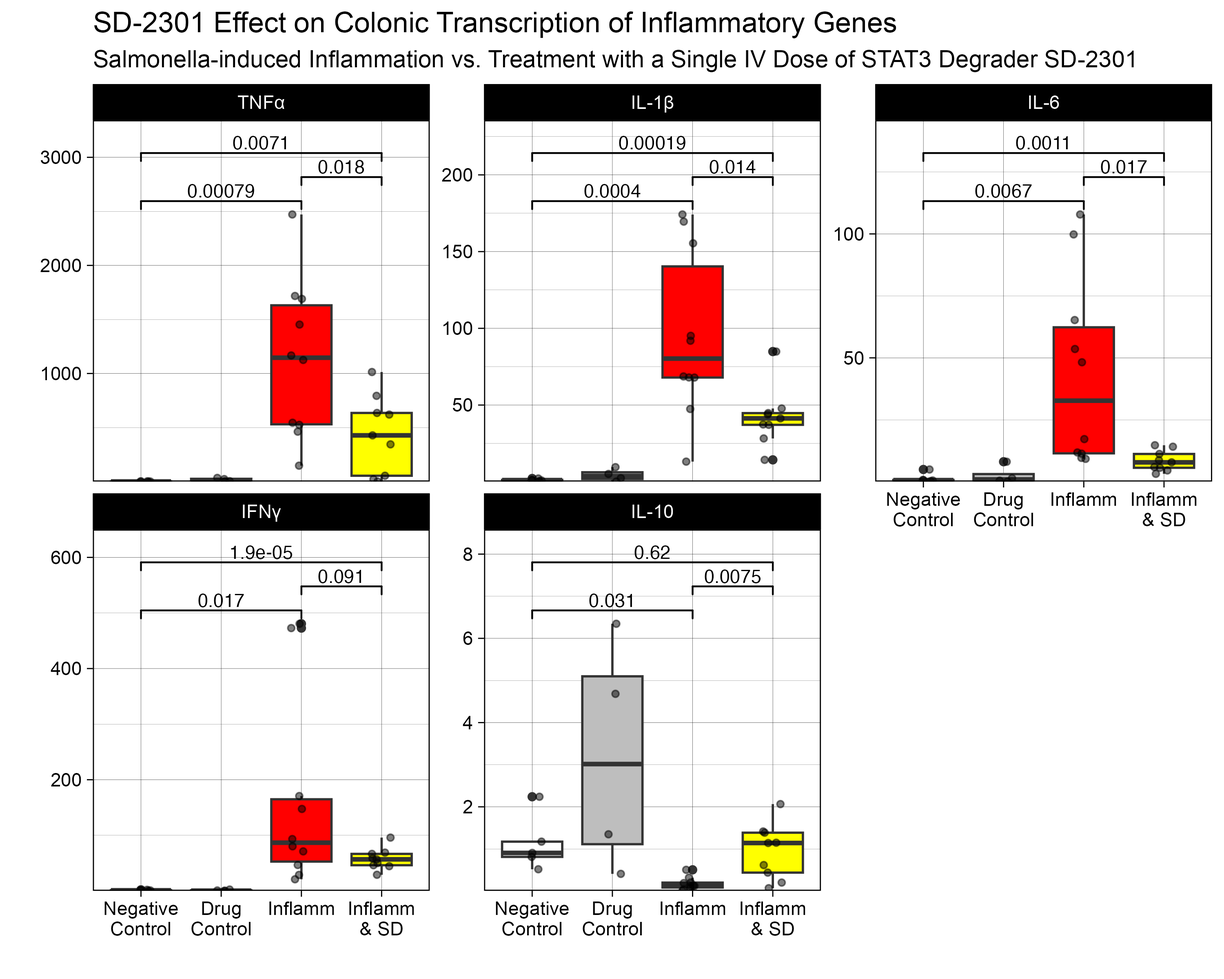
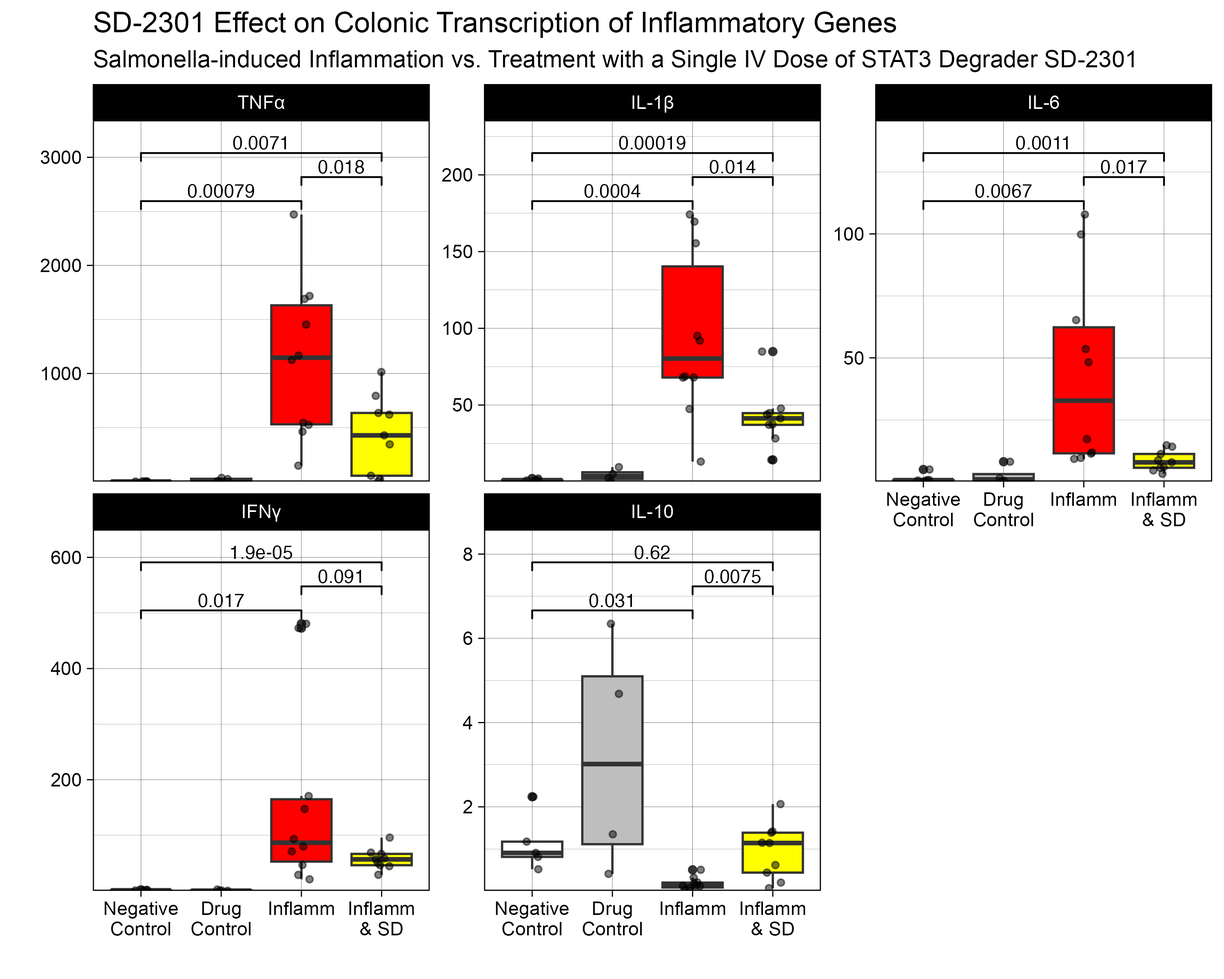
updated socs3 facet plot

diff --git a/SD2301_analysis.html b/SD2301_analysis.html
@@ -142,112 +142,154 @@ The following object is masked from 'package:readr':
 
     col_factor</code></pre>
 </div>
+<div class="sourceCode cell-code" id="cb9"><pre class="sourceCode r code-with-copy"><code class="sourceCode r"><span id="cb9-1"><a href="#cb9-1" aria-hidden="true" tabindex="-1"></a><span class="fu">library</span>(ggbeeswarm)</span></code><button title="Copy to Clipboard" class="code-copy-button"><i class="bi"></i></button></pre></div>
 </div>
 </section>
 <section id="read-in-data" class="level2">
 <h2 class="anchored" data-anchor-id="read-in-data">Read in data</h2>
 <div class="cell">
-<div class="sourceCode cell-code" id="cb9"><pre class="sourceCode r code-with-copy"><code class="sourceCode r"><span id="cb9-1"><a href="#cb9-1" aria-hidden="true" tabindex="-1"></a>df <span class="ot">&lt;-</span> <span class="fu">read_excel</span>(<span class="fu">here</span>(<span class="st">"SD2301_tidy.xlsx"</span>)) <span class="sc">|&gt;</span> </span>
-<span id="cb9-2"><a href="#cb9-2" aria-hidden="true" tabindex="-1"></a>  <span class="fu">select</span>(mice, category, TNF<span class="sc">:</span>STAT3) <span class="sc">|&gt;</span></span>
-<span id="cb9-3"><a href="#cb9-3" aria-hidden="true" tabindex="-1"></a>  <span class="fu">pivot_longer</span>(<span class="at">cols =</span> <span class="sc">!</span><span class="fu">c</span>(mice,category), <span class="at">names_to =</span> <span class="st">"transcript"</span>, <span class="at">values_to =</span> <span class="st">"value"</span>) <span class="sc">|&gt;</span></span>
-<span id="cb9-4"><a href="#cb9-4" aria-hidden="true" tabindex="-1"></a>  <span class="fu">mutate</span>(<span class="at">arm =</span> <span class="fu">case_when</span>(</span>
-<span id="cb9-5"><a href="#cb9-5" aria-hidden="true" tabindex="-1"></a>    category <span class="sc">==</span> <span class="dv">1</span> <span class="sc">~</span> <span class="st">"Negative Control"</span>,</span>
-<span id="cb9-6"><a href="#cb9-6" aria-hidden="true" tabindex="-1"></a>    category <span class="sc">==</span> <span class="dv">2</span> <span class="sc">~</span> <span class="st">"Drug Control"</span>,</span>
-<span id="cb9-7"><a href="#cb9-7" aria-hidden="true" tabindex="-1"></a>    category <span class="sc">==</span> <span class="dv">3</span> <span class="sc">~</span> <span class="st">"Inflamm"</span>,</span>
-<span id="cb9-8"><a href="#cb9-8" aria-hidden="true" tabindex="-1"></a>    category <span class="sc">==</span> <span class="dv">4</span> <span class="sc">~</span> <span class="st">"Inflamm &amp; SD3"</span>,</span>
-<span id="cb9-9"><a href="#cb9-9" aria-hidden="true" tabindex="-1"></a>    category <span class="sc">==</span> <span class="dv">5</span> <span class="sc">~</span> <span class="st">"Inflamm &amp; SD"</span>)) <span class="sc">|&gt;</span> </span>
-<span id="cb9-10"><a href="#cb9-10" aria-hidden="true" tabindex="-1"></a>  <span class="fu">mutate</span>(<span class="at">transcript =</span> <span class="fu">case_when</span>(</span>
-<span id="cb9-11"><a href="#cb9-11" aria-hidden="true" tabindex="-1"></a>    transcript <span class="sc">==</span> <span class="st">"TNF"</span> <span class="sc">~</span> <span class="st">"TNFa"</span>,</span>
-<span id="cb9-12"><a href="#cb9-12" aria-hidden="true" tabindex="-1"></a>    transcript <span class="sc">==</span> <span class="st">"IL1"</span> <span class="sc">~</span> <span class="st">"IL-1b"</span>,</span>
-<span id="cb9-13"><a href="#cb9-13" aria-hidden="true" tabindex="-1"></a>    transcript <span class="sc">==</span> <span class="st">"IL6"</span> <span class="sc">~</span> <span class="st">"IL-6"</span>,</span>
-<span id="cb9-14"><a href="#cb9-14" aria-hidden="true" tabindex="-1"></a>    transcript <span class="sc">==</span> <span class="st">"STAT3"</span> <span class="sc">~</span> <span class="st">"STAT3"</span>,</span>
-<span id="cb9-15"><a href="#cb9-15" aria-hidden="true" tabindex="-1"></a>    transcript <span class="sc">==</span> <span class="st">"TGF"</span> <span class="sc">~</span> <span class="st">"TGFb"</span>,</span>
-<span id="cb9-16"><a href="#cb9-16" aria-hidden="true" tabindex="-1"></a>    transcript <span class="sc">==</span> <span class="st">"INF"</span> <span class="sc">~</span> <span class="st">"IFNg"</span>,</span>
-<span id="cb9-17"><a href="#cb9-17" aria-hidden="true" tabindex="-1"></a>    transcript <span class="sc">==</span> <span class="st">"il10"</span> <span class="sc">~</span> <span class="st">"IL-10"</span>)) <span class="sc">|&gt;</span>  </span>
-<span id="cb9-18"><a href="#cb9-18" aria-hidden="true" tabindex="-1"></a>    <span class="fu">mutate</span>(<span class="at">arm =</span> <span class="fu">ordered</span>(arm, <span class="at">levels =</span> <span class="fu">c</span>(<span class="st">"Negative Control"</span>, <span class="st">"Drug Control"</span>, <span class="st">"Inflamm"</span>, <span class="st">"Inflamm &amp; SD3"</span>, <span class="st">"Inflamm &amp; SD"</span>))) <span class="sc">|&gt;</span> </span>
-<span id="cb9-19"><a href="#cb9-19" aria-hidden="true" tabindex="-1"></a>  <span class="fu">mutate</span>(<span class="at">transcript =</span> <span class="fu">factor</span>(transcript, <span class="at">levels =</span> <span class="fu">c</span>(<span class="st">"TNFa"</span>, <span class="st">"IL-1b"</span>, <span class="st">"IL-6"</span>, <span class="st">"IFNg"</span>, <span class="st">"TGFb"</span>, <span class="st">"STAT3"</span>, <span class="st">'IL-10'</span>))) <span class="sc">|&gt;</span> </span>
-<span id="cb9-20"><a href="#cb9-20" aria-hidden="true" tabindex="-1"></a>  <span class="fu">filter</span>(transcript <span class="sc">!=</span> <span class="st">"TGFb"</span> <span class="sc">&amp;</span> transcript <span class="sc">!=</span> <span class="st">"STAT3"</span>) <span class="sc">|&gt;</span> </span>
-<span id="cb9-21"><a href="#cb9-21" aria-hidden="true" tabindex="-1"></a>  <span class="fu">filter</span>(arm <span class="sc">!=</span> <span class="st">"Inflamm &amp; SD3"</span>) <span class="sc">|&gt;</span></span>
-<span id="cb9-22"><a href="#cb9-22" aria-hidden="true" tabindex="-1"></a>  <span class="fu">filter</span>(<span class="sc">!</span><span class="fu">is.na</span>(value))</span></code><button title="Copy to Clipboard" class="code-copy-button"><i class="bi"></i></button></pre></div>
+<div class="sourceCode cell-code" id="cb10"><pre class="sourceCode r code-with-copy"><code class="sourceCode r"><span id="cb10-1"><a href="#cb10-1" aria-hidden="true" tabindex="-1"></a>df <span class="ot">&lt;-</span> <span class="fu">read_excel</span>(<span class="fu">here</span>(<span class="st">"SD2301_tidy.xlsx"</span>)) <span class="sc">|&gt;</span> </span>
+<span id="cb10-2"><a href="#cb10-2" aria-hidden="true" tabindex="-1"></a>  <span class="fu">select</span>(mice, category, TNF<span class="sc">:</span>STAT3) <span class="sc">|&gt;</span></span>
+<span id="cb10-3"><a href="#cb10-3" aria-hidden="true" tabindex="-1"></a>  <span class="fu">pivot_longer</span>(<span class="at">cols =</span> <span class="sc">!</span><span class="fu">c</span>(mice,category), <span class="at">names_to =</span> <span class="st">"transcript"</span>, <span class="at">values_to =</span> <span class="st">"value"</span>) <span class="sc">|&gt;</span></span>
+<span id="cb10-4"><a href="#cb10-4" aria-hidden="true" tabindex="-1"></a>  <span class="fu">mutate</span>(<span class="at">arm =</span> <span class="fu">case_when</span>(</span>
+<span id="cb10-5"><a href="#cb10-5" aria-hidden="true" tabindex="-1"></a>    category <span class="sc">==</span> <span class="dv">1</span> <span class="sc">~</span> <span class="st">"Negative Control"</span>,</span>
+<span id="cb10-6"><a href="#cb10-6" aria-hidden="true" tabindex="-1"></a>    category <span class="sc">==</span> <span class="dv">2</span> <span class="sc">~</span> <span class="st">"Drug Control"</span>,</span>
+<span id="cb10-7"><a href="#cb10-7" aria-hidden="true" tabindex="-1"></a>    category <span class="sc">==</span> <span class="dv">3</span> <span class="sc">~</span> <span class="st">"Inflamm"</span>,</span>
+<span id="cb10-8"><a href="#cb10-8" aria-hidden="true" tabindex="-1"></a>    category <span class="sc">==</span> <span class="dv">4</span> <span class="sc">~</span> <span class="st">"Inflamm &amp; SD3"</span>,</span>
+<span id="cb10-9"><a href="#cb10-9" aria-hidden="true" tabindex="-1"></a>    category <span class="sc">==</span> <span class="dv">5</span> <span class="sc">~</span> <span class="st">"Inflamm &amp; SD"</span>)) <span class="sc">|&gt;</span> </span>
+<span id="cb10-10"><a href="#cb10-10" aria-hidden="true" tabindex="-1"></a>  <span class="fu">mutate</span>(<span class="at">transcript =</span> <span class="fu">case_when</span>(</span>
+<span id="cb10-11"><a href="#cb10-11" aria-hidden="true" tabindex="-1"></a>    transcript <span class="sc">==</span> <span class="st">"TNF"</span> <span class="sc">~</span> <span class="st">"TNF\u03b1"</span>,</span>
+<span id="cb10-12"><a href="#cb10-12" aria-hidden="true" tabindex="-1"></a>    transcript <span class="sc">==</span> <span class="st">"IL1"</span> <span class="sc">~</span> <span class="st">"IL-1\u03b2"</span>,</span>
+<span id="cb10-13"><a href="#cb10-13" aria-hidden="true" tabindex="-1"></a>    transcript <span class="sc">==</span> <span class="st">"IL6"</span> <span class="sc">~</span> <span class="st">"IL-6"</span>,</span>
+<span id="cb10-14"><a href="#cb10-14" aria-hidden="true" tabindex="-1"></a>    transcript <span class="sc">==</span> <span class="st">"STAT3"</span> <span class="sc">~</span> <span class="st">"STAT3"</span>,</span>
+<span id="cb10-15"><a href="#cb10-15" aria-hidden="true" tabindex="-1"></a>    transcript <span class="sc">==</span> <span class="st">"TGF"</span> <span class="sc">~</span> <span class="st">"TGFb"</span>,</span>
+<span id="cb10-16"><a href="#cb10-16" aria-hidden="true" tabindex="-1"></a>    transcript <span class="sc">==</span> <span class="st">"INF"</span> <span class="sc">~</span> <span class="st">"IFN\u03b3"</span>,</span>
+<span id="cb10-17"><a href="#cb10-17" aria-hidden="true" tabindex="-1"></a>    transcript <span class="sc">==</span> <span class="st">"il10"</span> <span class="sc">~</span> <span class="st">"IL-10"</span>)) <span class="sc">|&gt;</span>  </span>
+<span id="cb10-18"><a href="#cb10-18" aria-hidden="true" tabindex="-1"></a>    <span class="fu">mutate</span>(<span class="at">arm =</span> <span class="fu">ordered</span>(arm, <span class="at">levels =</span> <span class="fu">c</span>(<span class="st">"Negative Control"</span>, <span class="st">"Drug Control"</span>, <span class="st">"Inflamm"</span>, <span class="st">"Inflamm &amp; SD3"</span>, <span class="st">"Inflamm &amp; SD"</span>))) <span class="sc">|&gt;</span> </span>
+<span id="cb10-19"><a href="#cb10-19" aria-hidden="true" tabindex="-1"></a>  <span class="fu">mutate</span>(<span class="at">transcript =</span> <span class="fu">factor</span>(transcript, <span class="at">levels =</span> <span class="fu">c</span>(<span class="st">"TNF\u03b1"</span>, <span class="st">"IL-1\u03b2"</span>, <span class="st">"IL-6"</span>, <span class="st">"IFN\u03b3"</span>, <span class="st">"TGFb"</span>, <span class="st">"STAT3"</span>, <span class="st">'IL-10'</span>))) <span class="sc">|&gt;</span> </span>
+<span id="cb10-20"><a href="#cb10-20" aria-hidden="true" tabindex="-1"></a>  <span class="fu">filter</span>(transcript <span class="sc">!=</span> <span class="st">"TGFb"</span> <span class="sc">&amp;</span> transcript <span class="sc">!=</span> <span class="st">"STAT3"</span>) <span class="sc">|&gt;</span> </span>
+<span id="cb10-21"><a href="#cb10-21" aria-hidden="true" tabindex="-1"></a>  <span class="fu">filter</span>(arm <span class="sc">!=</span> <span class="st">"Inflamm &amp; SD3"</span>) <span class="sc">|&gt;</span></span>
+<span id="cb10-22"><a href="#cb10-22" aria-hidden="true" tabindex="-1"></a>  <span class="fu">filter</span>(<span class="sc">!</span><span class="fu">is.na</span>(value))</span></code><button title="Copy to Clipboard" class="code-copy-button"><i class="bi"></i></button></pre></div>
 </div>
 </section>
 <section id="analysis-code" class="level2">
 <h2 class="anchored" data-anchor-id="analysis-code">Analysis Code</h2>
+<p>Start with IL21 induction of SOCS3 via STAT3 in LCL lines. Human Lymphoblastoid Cell Lines (LCL) that are wild-type (WT), Loss-of-Function (LOF) and Gain-Of-Function (GOF) for STAT3 were tested with IL-21 (50 ng/mL) induction of SOCS3 transcription, which is dependent on functional STAT3. To this induction was added a range of doses (0,0,5, or 1 microM) of SD-2301, a STAT3 degrader.</p>
 <div class="cell">
-<div class="sourceCode cell-code" id="cb10"><pre class="sourceCode r code-with-copy"><code class="sourceCode r"><span id="cb10-1"><a href="#cb10-1" aria-hidden="true" tabindex="-1"></a>plot <span class="ot">&lt;-</span> df <span class="sc">|&gt;</span> </span>
-<span id="cb10-2"><a href="#cb10-2" aria-hidden="true" tabindex="-1"></a>  <span class="fu">filter</span>(arm <span class="sc">!=</span> <span class="st">"Inflammation &amp; SD3"</span>) <span class="sc">|&gt;</span> </span>
-<span id="cb10-3"><a href="#cb10-3" aria-hidden="true" tabindex="-1"></a>  <span class="fu">ggplot</span>(<span class="fu">aes</span>(<span class="at">x =</span> arm, <span class="at">y =</span> value, <span class="at">fill =</span> arm)) <span class="sc">+</span></span>
-<span id="cb10-4"><a href="#cb10-4" aria-hidden="true" tabindex="-1"></a>  <span class="fu">geom_boxplot</span>() <span class="sc">+</span></span>
-<span id="cb10-5"><a href="#cb10-5" aria-hidden="true" tabindex="-1"></a>  <span class="fu">geom_point</span>(<span class="at">position =</span> <span class="fu">position_jitterdodge</span>(), <span class="at">size =</span> <span class="fl">1.5</span>, <span class="at">alpha =</span> <span class="fl">0.5</span>) <span class="sc">+</span></span>
-<span id="cb10-6"><a href="#cb10-6" aria-hidden="true" tabindex="-1"></a>  <span class="fu">facet_wrap</span>(<span class="sc">~</span>transcript, <span class="at">scales =</span> <span class="st">"free_y"</span>) <span class="sc">+</span></span>
-<span id="cb10-7"><a href="#cb10-7" aria-hidden="true" tabindex="-1"></a>  <span class="fu">scale_fill_manual</span>(<span class="at">values =</span> <span class="fu">c</span>(<span class="st">"Negative Control"</span> <span class="ot">=</span> <span class="st">"white"</span>, <span class="st">"Drug Control"</span> <span class="ot">=</span> <span class="st">"gray"</span>, <span class="st">"Inflamm"</span> <span class="ot">=</span> <span class="st">"red"</span>, <span class="st">"Inflamm &amp; SD"</span> <span class="ot">=</span> <span class="st">"yellow"</span>)) <span class="sc">+</span></span>
-<span id="cb10-8"><a href="#cb10-8" aria-hidden="true" tabindex="-1"></a>    ggsignif<span class="sc">::</span><span class="fu">geom_signif</span>(<span class="at">comparisons =</span> <span class="fu">list</span>(</span>
-<span id="cb10-9"><a href="#cb10-9" aria-hidden="true" tabindex="-1"></a>    <span class="fu">c</span>(<span class="dv">1</span>,<span class="dv">2</span>), <span class="fu">c</span>(<span class="dv">1</span>,<span class="dv">3</span>), <span class="fu">c</span>(<span class="dv">3</span>,<span class="dv">4</span>), <span class="fu">c</span>(<span class="dv">3</span>,<span class="dv">5</span>), <span class="fu">c</span>(<span class="dv">4</span>,<span class="dv">5</span>), <span class="fu">c</span>(<span class="dv">1</span>,<span class="dv">4</span>),</span>
-<span id="cb10-10"><a href="#cb10-10" aria-hidden="true" tabindex="-1"></a>    <span class="fu">c</span>(<span class="dv">1</span>,<span class="dv">5</span>)),</span>
-<span id="cb10-11"><a href="#cb10-11" aria-hidden="true" tabindex="-1"></a>    <span class="at">test =</span> <span class="st">"t.test"</span>,</span>
-<span id="cb10-12"><a href="#cb10-12" aria-hidden="true" tabindex="-1"></a>    <span class="at">step_increase =</span> <span class="fl">0.12</span>) <span class="sc">+</span></span>
-<span id="cb10-13"><a href="#cb10-13" aria-hidden="true" tabindex="-1"></a>  <span class="fu">scale_x_discrete</span>(<span class="at">labels =</span> <span class="fu">label_wrap</span>(<span class="dv">6</span>)) <span class="sc">+</span></span>
-<span id="cb10-14"><a href="#cb10-14" aria-hidden="true" tabindex="-1"></a>  <span class="fu">theme_linedraw</span>(<span class="at">base_size =</span> <span class="dv">16</span>, <span class="at">base_family =</span> <span class="st">"Arial"</span>)</span>
-<span id="cb10-15"><a href="#cb10-15" aria-hidden="true" tabindex="-1"></a></span>
-<span id="cb10-16"><a href="#cb10-16" aria-hidden="true" tabindex="-1"></a>plot</span></code><button title="Copy to Clipboard" class="code-copy-button"><i class="bi"></i></button></pre></div>
+<div class="sourceCode cell-code" id="cb11"><pre class="sourceCode r code-with-copy"><code class="sourceCode r"><span id="cb11-1"><a href="#cb11-1" aria-hidden="true" tabindex="-1"></a>dta <span class="ot">&lt;-</span> <span class="fu">read_excel</span>(<span class="st">"SOSC3 results.xlsx"</span>) <span class="sc">|&gt;</span> </span>
+<span id="cb11-2"><a href="#cb11-2" aria-hidden="true" tabindex="-1"></a>  <span class="fu">rename</span>(<span class="at">group =</span> category...<span class="dv">3</span>,</span>
+<span id="cb11-3"><a href="#cb11-3" aria-hidden="true" tabindex="-1"></a>         <span class="at">il_21_ng_ml =</span> <span class="st">`</span><span class="at">IL21(ng/ml)</span><span class="st">`</span>) <span class="sc">|&gt;</span> </span>
+<span id="cb11-4"><a href="#cb11-4" aria-hidden="true" tabindex="-1"></a>  <span class="fu">mutate</span>(<span class="at">LCL =</span> <span class="fu">c</span>(<span class="fu">rep</span>(<span class="st">"WT"</span>, <span class="dv">22</span>), <span class="fu">rep</span>(<span class="st">"LOF"</span>, <span class="dv">23</span>), <span class="fu">rep</span>(<span class="st">"GOF"</span>, <span class="dv">22</span>))) <span class="sc">|&gt;</span> </span>
+<span id="cb11-5"><a href="#cb11-5" aria-hidden="true" tabindex="-1"></a>  <span class="fu">mutate</span>(<span class="at">LCL =</span> <span class="fu">factor</span>(LCL, <span class="at">levels =</span> <span class="fu">c</span> (<span class="st">"LOF"</span>, <span class="st">"WT"</span>, <span class="st">"GOF"</span>))) <span class="sc">|&gt;</span> </span>
+<span id="cb11-6"><a href="#cb11-6" aria-hidden="true" tabindex="-1"></a>  <span class="fu">mutate</span>(<span class="at">il_21_ng_ml =</span> <span class="fu">c</span>(<span class="fu">rep</span>(<span class="dv">0</span>,<span class="dv">11</span>), <span class="fu">rep</span>(<span class="dv">50</span>,<span class="dv">11</span>),  <span class="fu">rep</span>(<span class="dv">0</span>,<span class="dv">11</span>),  <span class="fu">rep</span>(<span class="dv">50</span>,<span class="dv">12</span>),  <span class="fu">rep</span>(<span class="dv">0</span>,<span class="dv">11</span>), <span class="fu">rep</span>(<span class="dv">50</span>,<span class="dv">11</span>))) <span class="sc">|&gt;</span> </span>
+<span id="cb11-7"><a href="#cb11-7" aria-hidden="true" tabindex="-1"></a>  <span class="fu">mutate</span>(<span class="st">`</span><span class="at">SD2301(um)</span><span class="st">`</span> <span class="ot">=</span> <span class="fu">c</span>(<span class="fu">rep</span>(<span class="dv">0</span>, <span class="dv">5</span>), <span class="fu">rep</span>(<span class="fl">0.5</span>, <span class="dv">3</span>), <span class="fu">rep</span>(<span class="fl">1.0</span>, <span class="dv">3</span>),</span>
+<span id="cb11-8"><a href="#cb11-8" aria-hidden="true" tabindex="-1"></a>                          <span class="fu">rep</span>(<span class="dv">0</span>, <span class="dv">5</span>), <span class="fu">rep</span>(<span class="fl">0.5</span>, <span class="dv">3</span>), <span class="fu">rep</span>(<span class="fl">1.0</span>, <span class="dv">3</span>),</span>
+<span id="cb11-9"><a href="#cb11-9" aria-hidden="true" tabindex="-1"></a>                          <span class="fu">rep</span>(<span class="dv">0</span>, <span class="dv">5</span>), <span class="fu">rep</span>(<span class="fl">0.5</span>, <span class="dv">3</span>), <span class="fu">rep</span>(<span class="fl">1.0</span>, <span class="dv">3</span>),</span>
+<span id="cb11-10"><a href="#cb11-10" aria-hidden="true" tabindex="-1"></a>                          <span class="fu">rep</span>(<span class="dv">0</span>, <span class="dv">5</span>), <span class="fu">rep</span>(<span class="fl">0.5</span>, <span class="dv">4</span>), <span class="fu">rep</span>(<span class="fl">1.0</span>, <span class="dv">3</span>),</span>
+<span id="cb11-11"><a href="#cb11-11" aria-hidden="true" tabindex="-1"></a>                          <span class="fu">rep</span>(<span class="dv">0</span>, <span class="dv">5</span>), <span class="fu">rep</span>(<span class="fl">0.5</span>, <span class="dv">3</span>), <span class="fu">rep</span>(<span class="fl">1.0</span>, <span class="dv">3</span>),</span>
+<span id="cb11-12"><a href="#cb11-12" aria-hidden="true" tabindex="-1"></a>                          <span class="fu">rep</span>(<span class="dv">0</span>, <span class="dv">5</span>), <span class="fu">rep</span>(<span class="fl">0.5</span>, <span class="dv">3</span>), <span class="fu">rep</span>(<span class="fl">1.0</span>, <span class="dv">3</span>))) <span class="sc">|&gt;</span> </span>
+<span id="cb11-13"><a href="#cb11-13" aria-hidden="true" tabindex="-1"></a>  <span class="fu">select</span>(<span class="dv">2</span><span class="sc">:</span><span class="dv">3</span>, <span class="dv">6</span><span class="sc">:</span><span class="dv">8</span>)</span></code><button title="Copy to Clipboard" class="code-copy-button"><i class="bi"></i></button></pre></div>
 <div class="cell-output cell-output-stderr">
-<pre><code>Warning: Computation failed in `stat_signif()`.
-Caused by error in `t.test.default()`:
-! not enough 'y' observations</code></pre>
+<pre><code>New names:
+• `` -&gt; `...1`
+• `category` -&gt; `category...3`
+• `` -&gt; `...4`
+• `category` -&gt; `category...5`
+• `` -&gt; `...9`</code></pre>
 </div>
-<div class="cell-output cell-output-stderr">
-<pre><code>Warning: Computation failed in `stat_signif()`.
-Caused by error in `t.test.default()`:
-! not enough 'y' observations</code></pre>
+<div class="sourceCode cell-code" id="cb13"><pre class="sourceCode r code-with-copy"><code class="sourceCode r"><span id="cb13-1"><a href="#cb13-1" aria-hidden="true" tabindex="-1"></a>dta <span class="sc">|&gt;</span> </span>
+<span id="cb13-2"><a href="#cb13-2" aria-hidden="true" tabindex="-1"></a>  <span class="fu">group_by</span>(group) <span class="sc">|&gt;</span> </span>
+<span id="cb13-3"><a href="#cb13-3" aria-hidden="true" tabindex="-1"></a>  <span class="fu">summarise</span>(<span class="at">avg =</span> <span class="fu">mean</span>(SOCS3))</span></code><button title="Copy to Clipboard" class="code-copy-button"><i class="bi"></i></button></pre></div>
+<div class="cell-output cell-output-stdout">
+<pre><code># A tibble: 18 × 2
+   group    avg
+   &lt;dbl&gt;  &lt;dbl&gt;
+ 1     1  1.00 
+ 2     2  0.873
+ 3     3  2.73 
+ 4     4 40.7  
+ 5     5  2.38 
+ 6     6  1.41 
+ 7     7  1.47 
+ 8     8  7.92 
+ 9     9  2.35 
+10    10 13.6  
+11    11  1.73 
+12    12  2.54 
+13    13 12.7  
+14    14  1.31 
+15    15  2.43 
+16    16 79.7  
+17    17  4.35 
+18    18  2.26 </code></pre>
 </div>
-<div class="cell-output cell-output-stderr">
-<pre><code>Warning: Computation failed in `stat_signif()`.
-Caused by error in `t.test.default()`:
-! not enough 'y' observations</code></pre>
-</div>
-<div class="cell-output cell-output-stderr">
-<pre><code>Warning: Computation failed in `stat_signif()`.
-Caused by error in `t.test.default()`:
-! not enough 'y' observations</code></pre>
-</div>
-<div class="cell-output cell-output-stderr">
-<pre><code>Warning: Computation failed in `stat_signif()`.
-Caused by error in `t.test.default()`:
-! not enough 'y' observations</code></pre>
-</div>
+<div class="sourceCode cell-code" id="cb15"><pre class="sourceCode r code-with-copy"><code class="sourceCode r"><span id="cb15-1"><a href="#cb15-1" aria-hidden="true" tabindex="-1"></a>p <span class="ot">&lt;-</span> dta  <span class="sc">|&gt;</span> <span class="fu">clean_names</span>() <span class="sc">|&gt;</span> </span>
+<span id="cb15-2"><a href="#cb15-2" aria-hidden="true" tabindex="-1"></a>  <span class="fu">ggplot</span>(<span class="fu">aes</span>(<span class="at">x =</span> lcl, <span class="at">y =</span> socs3)) <span class="sc">+</span></span>
+<span id="cb15-3"><a href="#cb15-3" aria-hidden="true" tabindex="-1"></a>  <span class="fu">geom_boxplot</span>(<span class="at">color =</span> <span class="st">"gray60"</span>) <span class="sc">+</span></span>
+<span id="cb15-4"><a href="#cb15-4" aria-hidden="true" tabindex="-1"></a>  <span class="fu">geom_quasirandom</span>(<span class="fu">aes</span>(<span class="at">color =</span> lcl))<span class="sc">+</span></span>
+<span id="cb15-5"><a href="#cb15-5" aria-hidden="true" tabindex="-1"></a>  <span class="fu">scale_color_manual</span>(<span class="at">values =</span> <span class="fu">c</span>(<span class="st">'dodgerblue1'</span>, <span class="st">'dodgerblue3'</span>, <span class="st">'dodgerblue4'</span>)) <span class="sc">+</span></span>
+<span id="cb15-6"><a href="#cb15-6" aria-hidden="true" tabindex="-1"></a>  <span class="fu">facet_grid</span>( sd2301_um <span class="sc">~</span> il_21_ng_ml, <span class="at">labeller =</span> label_both) <span class="sc">+</span></span>
+<span id="cb15-7"><a href="#cb15-7" aria-hidden="true" tabindex="-1"></a>  <span class="fu">labs</span>(<span class="at">y =</span> <span class="st">"SOCS3 Transcription in response to IL-21 Stimulus</span><span class="sc">\n</span><span class="st">Fold vs. Untreated Wild Type"</span>,</span>
+<span id="cb15-8"><a href="#cb15-8" aria-hidden="true" tabindex="-1"></a>       <span class="at">x =</span> <span class="st">""</span>,</span>
+<span id="cb15-9"><a href="#cb15-9" aria-hidden="true" tabindex="-1"></a>       <span class="at">title =</span> <span class="st">'A STAT3 Degrader (SD2301) Eliminates IL21-Induced pSTAT3-Driven SOCS3 Transcription'</span>,</span>
+<span id="cb15-10"><a href="#cb15-10" aria-hidden="true" tabindex="-1"></a>       <span class="at">subtitle =</span> <span class="st">"IL-21 stimulus of STAT3 with either 0 or 50 ng/mL for 21 hours in the two x axis facets</span><span class="sc">\n</span><span class="st">Tested in Lymphomblastoid Cell Lines with STAT3 LOF (Loss of Function), WT (Wild Type),</span><span class="sc">\n</span><span class="st">or GOF (Gain of Function)</span><span class="sc">\n</span><span class="st">Anti-inflammatory STAT3-degrading activity of SD2301 at 0, 0.5, or 1.0 microM in the three y axis facets"</span>,</span>
+<span id="cb15-11"><a href="#cb15-11" aria-hidden="true" tabindex="-1"></a>       <span class="at">caption =</span> <span class="st">"Lymphoblastoid Cell Lines in the x axis columns -</span><span class="sc">\n</span><span class="st">Loss of STAT3 Function (LOF), Wild Type (WT), or Gain of Function (GOF)"</span>) <span class="sc">+</span></span>
+<span id="cb15-12"><a href="#cb15-12" aria-hidden="true" tabindex="-1"></a>  <span class="fu">theme_linedraw</span>() <span class="sc">+</span></span>
+<span id="cb15-13"><a href="#cb15-13" aria-hidden="true" tabindex="-1"></a>  <span class="fu">theme</span>(<span class="at">legend.position =</span> <span class="st">"none"</span>)</span>
+<span id="cb15-14"><a href="#cb15-14" aria-hidden="true" tabindex="-1"></a></span>
+<span id="cb15-15"><a href="#cb15-15" aria-hidden="true" tabindex="-1"></a></span>
+<span id="cb15-16"><a href="#cb15-16" aria-hidden="true" tabindex="-1"></a>p <span class="sc">+</span> <span class="fu">geom_text</span>(</span>
+<span id="cb15-17"><a href="#cb15-17" aria-hidden="true" tabindex="-1"></a>  <span class="at">data =</span> <span class="fu">data.frame</span>(<span class="at">il_21_ng_ml =</span> <span class="dv">0</span>, <span class="at">sd2301_um =</span> <span class="dv">0</span>),</span>
+<span id="cb15-18"><a href="#cb15-18" aria-hidden="true" tabindex="-1"></a>  <span class="at">mapping =</span> <span class="fu">aes</span>(<span class="at">x =</span> <span class="dv">3</span>, <span class="at">y =</span> <span class="dv">60</span>, <span class="at">label =</span> <span class="st">"With no IL21</span><span class="sc">\n</span><span class="st">Only the GOF</span><span class="sc">\n</span><span class="st">Cell Line makes SOCS3"</span>), <span class="at">size =</span> <span class="fl">2.8</span></span>
+<span id="cb15-19"><a href="#cb15-19" aria-hidden="true" tabindex="-1"></a>) <span class="sc">+</span></span>
+<span id="cb15-20"><a href="#cb15-20" aria-hidden="true" tabindex="-1"></a>  <span class="fu">geom_text</span>(</span>
+<span id="cb15-21"><a href="#cb15-21" aria-hidden="true" tabindex="-1"></a>  <span class="at">data =</span> <span class="fu">data.frame</span>(<span class="at">il_21_ng_ml =</span> <span class="dv">50</span>, <span class="at">sd2301_um =</span> <span class="dv">0</span>),</span>
+<span id="cb15-22"><a href="#cb15-22" aria-hidden="true" tabindex="-1"></a>  <span class="at">mapping =</span> <span class="fu">aes</span>(<span class="at">x =</span> <span class="dv">1</span>, <span class="at">y =</span> <span class="dv">60</span>, <span class="at">label =</span> <span class="st">"With IL21 Stimulation</span><span class="sc">\n</span><span class="st">All Cell Lines</span><span class="sc">\n</span><span class="st">Make More SOCS3</span><span class="sc">\n</span><span class="st">Proportional to</span><span class="sc">\n</span><span class="st">their STAT3 Function"</span>),<span class="at">size =</span> <span class="fl">2.8</span>) <span class="sc">+</span></span>
+<span id="cb15-23"><a href="#cb15-23" aria-hidden="true" tabindex="-1"></a>  <span class="fu">geom_text</span>(</span>
+<span id="cb15-24"><a href="#cb15-24" aria-hidden="true" tabindex="-1"></a>  <span class="at">data =</span> <span class="fu">data.frame</span>(<span class="at">il_21_ng_ml =</span> <span class="fu">c</span>(<span class="dv">0</span>,<span class="dv">50</span>), <span class="at">sd2301_um =</span> <span class="fu">c</span>(<span class="fl">0.5</span>, <span class="fl">0.5</span>)),</span>
+<span id="cb15-25"><a href="#cb15-25" aria-hidden="true" tabindex="-1"></a>  <span class="at">mapping =</span> <span class="fu">aes</span>(<span class="at">x =</span> <span class="dv">2</span>, <span class="at">y =</span> <span class="dv">60</span>, <span class="at">label =</span> <span class="fu">c</span>(<span class="st">"With SD2301 Degrading STAT3</span><span class="sc">\n</span><span class="st">All Cell Lines</span><span class="sc">\n</span><span class="st">Have STAT3 and SOCS3 Turned Off"</span>, <span class="st">"With SD2301 Degrading STAT3</span><span class="sc">\n</span><span class="st">All Cell Lines</span><span class="sc">\n</span><span class="st">Have STAT3 and SOCS3 Turned Off"</span>)), <span class="at">size =</span> <span class="fl">2.8</span>) <span class="sc">+</span></span>
+<span id="cb15-26"><a href="#cb15-26" aria-hidden="true" tabindex="-1"></a>  <span class="fu">geom_text</span>(</span>
+<span id="cb15-27"><a href="#cb15-27" aria-hidden="true" tabindex="-1"></a>  <span class="at">data =</span> <span class="fu">data.frame</span>(<span class="at">il_21_ng_ml =</span> <span class="fu">c</span>(<span class="dv">0</span>,<span class="dv">50</span>), <span class="at">sd2301_um =</span> <span class="fu">c</span>(<span class="fl">1.0</span>, <span class="fl">1.0</span>)),</span>
+<span id="cb15-28"><a href="#cb15-28" aria-hidden="true" tabindex="-1"></a>  <span class="at">mapping =</span> <span class="fu">aes</span>(<span class="at">x =</span> <span class="dv">2</span>, <span class="at">y =</span> <span class="dv">60</span>, <span class="at">label =</span> <span class="fu">c</span>(<span class="st">"With SD2301 Degrading STAT3</span><span class="sc">\n</span><span class="st">All Cell Lines</span><span class="sc">\n</span><span class="st">Have STAT3 and SOCS3 Turned Off"</span>, <span class="st">"With SD2301 Degrading STAT3</span><span class="sc">\n</span><span class="st">All Cell Lines</span><span class="sc">\n</span><span class="st">Have STAT3 and SOCS3 Turned Off"</span>)), <span class="at">size =</span> <span class="fl">2.8</span>)</span></code><button title="Copy to Clipboard" class="code-copy-button"><i class="bi"></i></button></pre></div>
 <div class="cell-output-display">
 <div>
 <figure class="figure">
-<p><img src="SD2301_analysis_files/figure-html/unnamed-chunk-3-1.png" class="img-fluid figure-img" width="1152"></p>
+<p><img src="SD2301_analysis_files/figure-html/unnamed-chunk-3-1.png" class="img-fluid figure-img" width="672"></p>
 </figure>
 </div>
 </div>
-<div class="sourceCode cell-code" id="cb16"><pre class="sourceCode r code-with-copy"><code class="sourceCode r"><span id="cb16-1"><a href="#cb16-1" aria-hidden="true" tabindex="-1"></a><span class="fu">ggsave</span>(plot, <span class="at">filename =</span> <span class="fu">here</span>(<span class="st">"SD2301_plot.png"</span>), <span class="at">width =</span> <span class="dv">12</span>, <span class="at">height =</span> <span class="dv">8</span>, <span class="at">dpi =</span> <span class="dv">300</span>)</span></code><button title="Copy to Clipboard" class="code-copy-button"><i class="bi"></i></button></pre></div>
-<div class="cell-output cell-output-stderr">
-<pre><code>Warning: Computation failed in `stat_signif()`.
-Caused by error in `t.test.default()`:
-! not enough 'y' observations</code></pre>
+<div class="sourceCode cell-code" id="cb16"><pre class="sourceCode r code-with-copy"><code class="sourceCode r"><span id="cb16-1"><a href="#cb16-1" aria-hidden="true" tabindex="-1"></a><span class="fu">ggsave</span>(<span class="at">filename =</span> <span class="fu">here</span>(<span class="st">"LCL_SD2301_plot.png"</span>), <span class="at">width =</span> <span class="dv">8</span>, <span class="at">height =</span> <span class="dv">6</span>, <span class="at">dpi =</span> <span class="dv">300</span>)</span></code><button title="Copy to Clipboard" class="code-copy-button"><i class="bi"></i></button></pre></div>
 </div>
-<div class="cell-output cell-output-stderr">
-<pre><code>Warning: Computation failed in `stat_signif()`.
-Caused by error in `t.test.default()`:
-! not enough 'y' observations</code></pre>
+<p>Next, intestinal fibrosis was induced in CBA/J mice by S. typhimurium, mice were randomized to 5 groups: 1) negative controls; 2) drug-only controls (no fibrosis); 3) fibrosis positive controls induced by S. typhimurium infection, 4) Fibrosis treated once with 30mg/kg SD2301 IV 1 day before infection; 5) Fibrosis treated with 3x_weekly doses of SD2301. All mice were sacrificed at day 22 after infection. Colon and cecum (affected tissue) was analyzed by gross pathology, histological fibrosis scoring, qRT-PCR, and Western blot.</p>
+<div class="cell">
+<div class="sourceCode cell-code" id="cb17"><pre class="sourceCode r code-with-copy"><code class="sourceCode r"><span id="cb17-1"><a href="#cb17-1" aria-hidden="true" tabindex="-1"></a>plot <span class="ot">&lt;-</span> df <span class="sc">|&gt;</span> </span>
+<span id="cb17-2"><a href="#cb17-2" aria-hidden="true" tabindex="-1"></a>  <span class="fu">filter</span>(arm <span class="sc">!=</span> <span class="st">"Inflammation &amp; SD3"</span>) <span class="sc">|&gt;</span> </span>
+<span id="cb17-3"><a href="#cb17-3" aria-hidden="true" tabindex="-1"></a>  <span class="fu">ggplot</span>(<span class="fu">aes</span>(<span class="at">x =</span> arm, <span class="at">y =</span> value, <span class="at">fill =</span> arm)) <span class="sc">+</span></span>
+<span id="cb17-4"><a href="#cb17-4" aria-hidden="true" tabindex="-1"></a>  <span class="fu">geom_boxplot</span>() <span class="sc">+</span></span>
+<span id="cb17-5"><a href="#cb17-5" aria-hidden="true" tabindex="-1"></a>  <span class="fu">geom_point</span>(<span class="at">position =</span> <span class="fu">position_jitterdodge</span>(), <span class="at">size =</span> <span class="fl">1.5</span>, <span class="at">alpha =</span> <span class="fl">0.5</span>) <span class="sc">+</span></span>
+<span id="cb17-6"><a href="#cb17-6" aria-hidden="true" tabindex="-1"></a>  <span class="fu">facet_wrap</span>(<span class="sc">~</span>transcript, <span class="at">scales =</span> <span class="st">"free_y"</span> ) <span class="sc">+</span></span>
+<span id="cb17-7"><a href="#cb17-7" aria-hidden="true" tabindex="-1"></a>  <span class="fu">scale_fill_manual</span>(<span class="at">values =</span> <span class="fu">c</span>(<span class="st">"Negative Control"</span> <span class="ot">=</span> <span class="st">"white"</span>, <span class="st">"Drug Control"</span> <span class="ot">=</span> <span class="st">"gray"</span>, <span class="st">"Inflamm"</span> <span class="ot">=</span> <span class="st">"red"</span>, <span class="st">"Inflamm &amp; SD"</span> <span class="ot">=</span> <span class="st">"yellow"</span>)) <span class="sc">+</span></span>
+<span id="cb17-8"><a href="#cb17-8" aria-hidden="true" tabindex="-1"></a>    ggsignif<span class="sc">::</span><span class="fu">geom_signif</span>(<span class="at">comparisons =</span> <span class="fu">list</span>(</span>
+<span id="cb17-9"><a href="#cb17-9" aria-hidden="true" tabindex="-1"></a>    <span class="fu">c</span>(<span class="dv">1</span>,<span class="dv">3</span>), <span class="fu">c</span>(<span class="dv">3</span>,<span class="dv">4</span>), <span class="fu">c</span>(<span class="dv">1</span>,<span class="dv">4</span>)),</span>
+<span id="cb17-10"><a href="#cb17-10" aria-hidden="true" tabindex="-1"></a>    <span class="at">test =</span> <span class="st">"t.test"</span>,</span>
+<span id="cb17-11"><a href="#cb17-11" aria-hidden="true" tabindex="-1"></a>    <span class="at">step_increase =</span> <span class="fl">0.09</span>) <span class="sc">+</span></span>
+<span id="cb17-12"><a href="#cb17-12" aria-hidden="true" tabindex="-1"></a>  <span class="fu">scale_x_discrete</span>(<span class="at">labels =</span> <span class="fu">label_wrap</span>(<span class="dv">8</span>)) <span class="sc">+</span></span>
+<span id="cb17-13"><a href="#cb17-13" aria-hidden="true" tabindex="-1"></a>  <span class="fu">theme_linedraw</span>(<span class="at">base_size =</span> <span class="dv">14</span>, <span class="at">base_family =</span> <span class="st">"Arial"</span>) <span class="sc">+</span></span>
+<span id="cb17-14"><a href="#cb17-14" aria-hidden="true" tabindex="-1"></a>  <span class="fu">scale_y_continuous</span>(<span class="at">expand =</span> <span class="fu">expansion</span>(<span class="at">mult =</span> <span class="fu">c</span>(<span class="dv">0</span>, <span class="fl">0.1</span>))) <span class="sc">+</span></span>
+<span id="cb17-15"><a href="#cb17-15" aria-hidden="true" tabindex="-1"></a>  <span class="fu">theme</span>(<span class="at">legend.position =</span> <span class="st">"none"</span>) <span class="sc">+</span></span>
+<span id="cb17-16"><a href="#cb17-16" aria-hidden="true" tabindex="-1"></a>  <span class="fu">labs</span>(<span class="at">y =</span> <span class="st">""</span>,  <span class="at">x =</span> <span class="st">""</span>,</span>
+<span id="cb17-17"><a href="#cb17-17" aria-hidden="true" tabindex="-1"></a>       <span class="at">title =</span> <span class="st">"SD-2301 Effect on Colonic Transcription of Inflammatory Genes"</span>,</span>
+<span id="cb17-18"><a href="#cb17-18" aria-hidden="true" tabindex="-1"></a>       <span class="at">subtitle =</span> <span class="st">"Salmonella-induced Inflammation vs. Treatment with a Single IV Dose of STAT3 Degrader SD-2301"</span>)</span>
+<span id="cb17-19"><a href="#cb17-19" aria-hidden="true" tabindex="-1"></a></span>
+<span id="cb17-20"><a href="#cb17-20" aria-hidden="true" tabindex="-1"></a>plot</span></code><button title="Copy to Clipboard" class="code-copy-button"><i class="bi"></i></button></pre></div>
+<div class="cell-output-display">
+<div>
+<figure class="figure">
+<p><img src="SD2301_analysis_files/figure-html/unnamed-chunk-4-1.png" class="img-fluid figure-img" width="672"></p>
+</figure>
 </div>
-<div class="cell-output cell-output-stderr">
-<pre><code>Warning: Computation failed in `stat_signif()`.
-Caused by error in `t.test.default()`:
-! not enough 'y' observations</code></pre>
 </div>
-<div class="cell-output cell-output-stderr">
-<pre><code>Warning: Computation failed in `stat_signif()`.
-Caused by error in `t.test.default()`:
-! not enough 'y' observations</code></pre>
-</div>
-<div class="cell-output cell-output-stderr">
-<pre><code>Warning: Computation failed in `stat_signif()`.
-Caused by error in `t.test.default()`:
-! not enough 'y' observations</code></pre>
-</div>
+<div class="sourceCode cell-code" id="cb18"><pre class="sourceCode r code-with-copy"><code class="sourceCode r"><span id="cb18-1"><a href="#cb18-1" aria-hidden="true" tabindex="-1"></a><span class="fu">ggsave</span>(plot, <span class="at">filename =</span> <span class="fu">here</span>(<span class="st">"SD2301_plot.png"</span>), <span class="at">width =</span> <span class="dv">10</span>, <span class="at">height =</span> <span class="dv">8</span>, <span class="at">dpi =</span> <span class="dv">300</span>)</span></code><button title="Copy to Clipboard" class="code-copy-button"><i class="bi"></i></button></pre></div>
 </div>
 </section>
 
